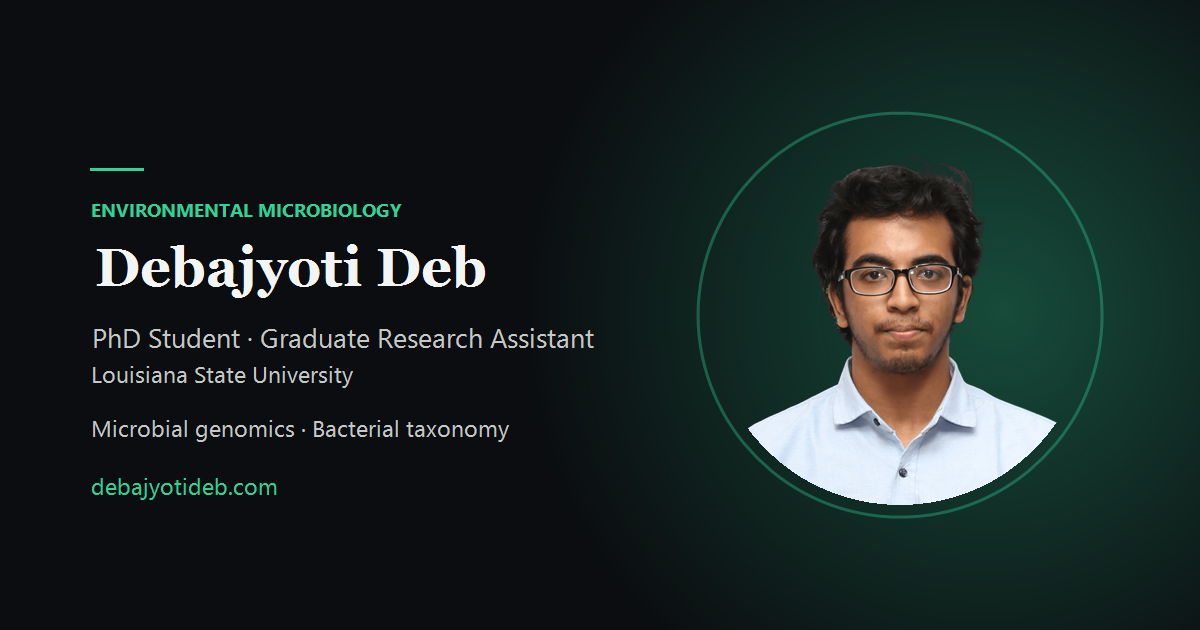
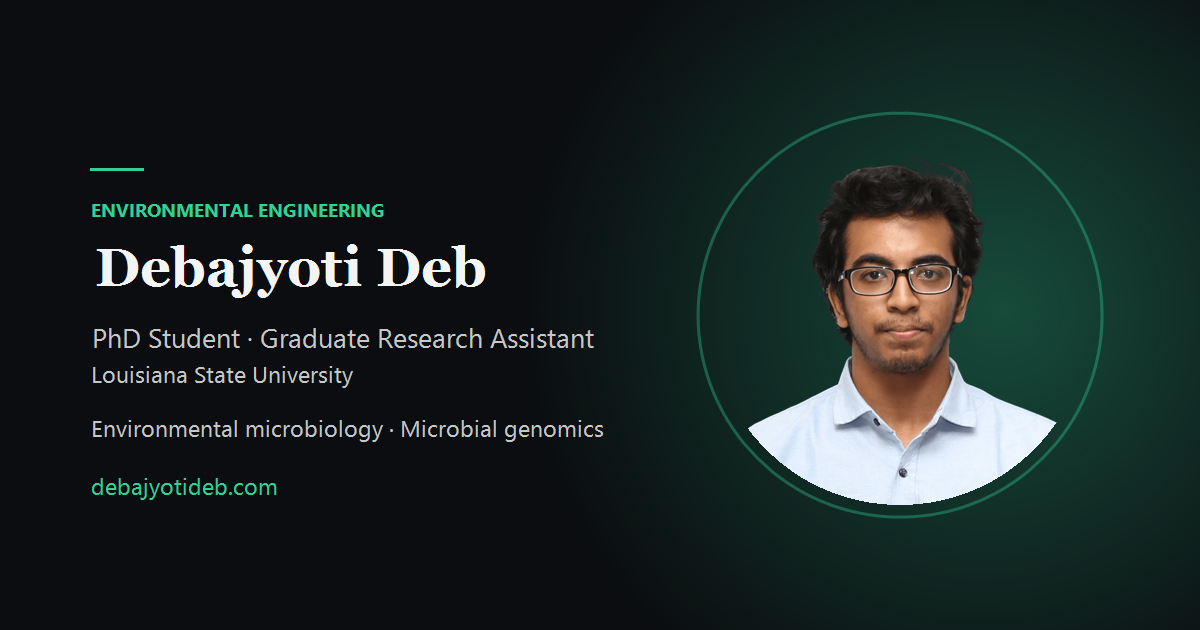
Correct research wording: restore engineering identity, drop generic phrasing
Content correction to the previous pass. No design changes.

- Hero: original headline restored ('Engineering how we treat what we
  throw away'). Description replaced with his wording. Chip now reads
  'PhD Student in Environmental Engineering'.
- About: replaced the method-heavy paragraph with his supplied text on
  the microbiology of environmental systems.
- Research: three areas replaced the previous ones - Biological Treatment
  & Environmental Microbiology, Contaminant Biodegradation &
  Bioremediation, Microbial Genomics & Bacterial Characterization.
- Keywords: Bacterial Taxonomy and Biodegradation replaced by Biological
  Wastewater Treatment, Bioremediation and Bacterial Characterization, so
  taxonomy no longer reads as the whole PhD.
- Removed 'I study environmental bacteria' and equivalent generic
  phrasing from index.html, cv.html, llms.txt and the metadata.
- Title, meta description, OG/Twitter and JSON-LD description now lead
  with environmental engineering; knowsAbout realigned.
- og-image.png regenerated (kicker back to Environmental Engineering).

Technical SEO, structured data, publication links and responsive fixes
from the previous pass are unchanged.

Changed region(s): [[0.0617, 0.6635, 0.5242, 0.6937], [0.2158, 0.3016, 0.3392, 0.3619]]

diff --git a/index.html b/index.html
@@ -3,8 +3,8 @@
 <head>
 <meta charset="UTF-8" />
 <meta name="viewport" content="width=device-width, initial-scale=1.0" />
-<title>Debajyoti Deb — PhD Student, Environmental Microbiology &amp; Microbial Genomics</title>
-<meta name="description" content="Debajyoti Deb — PhD student in Civil &amp; Environmental Engineering at Louisiana State University. Environmental microbiology, microbial genomics, bacterial taxonomy, biological treatment and biodegradation." />
+<title>Debajyoti Deb — Environmental Engineering PhD Student, LSU</title>
+<meta name="description" content="Debajyoti Deb — Environmental Engineering PhD student at Louisiana State University. Environmental microbiology, microbial genomics, and cultivation-based research on biological treatment and contaminant biodegradation." />
 <link rel="canonical" href="https://debajyotideb.com/" />
 <meta name="author" content="Debajyoti Deb" />
 <!-- max-snippet:-1 and max-image-preview:large let search and answer engines
@@ -15,8 +15,8 @@
 <meta property="og:type" content="profile" />
 <meta property="og:url" content="https://debajyotideb.com/" />
 <meta property="og:site_name" content="Debajyoti Deb" />
-<meta property="og:title" content="Debajyoti Deb — Environmental Microbiology &amp; Microbial Genomics" />
-<meta property="og:description" content="PhD student at Louisiana State University. Environmental microbiology, microbial genomics, bacterial taxonomy, biological treatment and biodegradation." />
+<meta property="og:title" content="Debajyoti Deb — Environmental Engineering PhD Student, LSU" />
+<meta property="og:description" content="Doctoral research combining environmental microbiology, microbial genomics, and cultivation-based experiments to investigate microorganisms relevant to biological treatment and contaminant biodegradation." />
 <meta property="og:image" content="https://debajyotideb.com/assets/img/og-image.png" />
 <meta property="og:image:width" content="1200" />
 <meta property="og:image:height" content="630" />
@@ -25,8 +25,8 @@
 <meta property="profile:first_name" content="Debajyoti" />
 <meta property="profile:last_name" content="Deb" />
 <meta name="twitter:card" content="summary_large_image" />
-<meta name="twitter:title" content="Debajyoti Deb — Environmental Microbiology &amp; Microbial Genomics" />
-<meta name="twitter:description" content="PhD student at Louisiana State University. Environmental microbiology, microbial genomics and bacterial taxonomy." />
+<meta name="twitter:title" content="Debajyoti Deb — Environmental Engineering PhD Student, LSU" />
+<meta name="twitter:description" content="Environmental microbiology, microbial genomics, and cultivation-based research on biological treatment and contaminant biodegradation." />
 <meta name="twitter:image" content="https://debajyotideb.com/assets/img/og-image.png" />
 
 <link rel="icon" type="image/svg+xml" href="assets/img/favicon.svg" />
@@ -62,7 +62,7 @@
       "image": "https://debajyotideb.com/assets/img/portrait.png",
       "email": "mailto:debajyotideb.che.buet@gmail.com",
       "jobTitle": "Graduate Research Assistant",
-      "description": "PhD student in Civil and Environmental Engineering at Louisiana State University. Studies environmental bacteria using cultivation, phenotypic characterization, molecular methods and genome analysis to understand their taxonomy, physiology and environmental functions.",
+      "description": "PhD student in Civil and Environmental Engineering at Louisiana State University. Doctoral research combining environmental microbiology, microbial genomics, and cultivation-based experiments to investigate microorganisms relevant to biological treatment and contaminant biodegradation.",
       "knowsLanguage": "en",
       "worksFor": {
         "@type": "CollegeOrUniversity",
@@ -97,16 +97,17 @@
         }
       },
       "knowsAbout": [
+        "Environmental Engineering",
         "Environmental Microbiology",
+        "Biological Wastewater Treatment",
+        "Bioremediation",
+        "Contaminant Biodegradation",
         "Microbial Genomics",
-        "Bacterial Taxonomy",
-        "Biodegradation",
-        "Biological Treatment",
+        "Bacterial Characterization",
         "Environmental Biotechnology",
-        "Bacterial Isolation and Cultivation",
-        "16S rRNA Gene Sequencing",
-        "Comparative Genomics",
-        "Environmental Engineering"
+        "Cultivation-Based Microbiology",
+        "16S rRNA Gene Analysis",
+        "Comparative Genomics"
       ],
       "sameAs": [
         "https://scholar.google.com/citations?user=YbjPVIoAAAAJ",
@@ -174,7 +175,7 @@
       "@type": "ProfilePage",
       "@id": "https://debajyotideb.com/#webpage",
       "url": "https://debajyotideb.com/",
-      "name": "Debajyoti Deb — PhD Student, Environmental Microbiology and Microbial Genomics",
+      "name": "Debajyoti Deb — Environmental Engineering PhD Student, LSU",
       "inLanguage": "en",
       "mainEntity": { "@id": "https://debajyotideb.com/#debajyoti-deb" },
       "about": { "@id": "https://debajyotideb.com/#debajyoti-deb" },
@@ -206,13 +207,12 @@
   <!-- ==================== HERO ==================== -->
   <section class="container hero" id="top">
     <div>
-      <span class="chip" data-reveal><span class="pulse"></span> PhD Student · Louisiana State University</span>
-      <h1 data-reveal style="--d:.08s">Understanding environmental microbes to <em>improve biological treatment.</em></h1>
+      <span class="chip" data-reveal><span class="pulse"></span> PhD Student in Environmental Engineering · Louisiana State University</span>
+      <h1 data-reveal style="--d:.08s">Engineering how we <em>treat what we throw away.</em></h1>
       <p class="lede" data-reveal style="--d:.16s">
-        I'm Debajyoti Deb, a PhD student at Louisiana State University. I study
-        environmental bacteria using cultivation, phenotypic characterization, molecular
-        methods, and genome analysis to understand their taxonomy, physiology, and
-        environmental functions.
+        My doctoral research combines environmental microbiology, microbial genomics, and
+        cultivation-based experiments to investigate microorganisms relevant to biological
+        treatment and contaminant biodegradation.
       </p>
       <div class="btn-row" data-reveal style="--d:.24s">
         <a class="btn btn-primary" href="#research">Research</a>
@@ -266,15 +266,13 @@
             on <strong>environmental microbiology and biological treatment</strong>.
           </p>
           <p data-reveal>
-            My research is on environmental bacteria — isolating and cultivating strains,
-            characterizing them phenotypically, and combining 16S rRNA sequencing with
-            whole-genome and comparative genomic analysis to place them taxonomically. The
-            aim is to connect genotype, phenotype, and environmental function: to establish
-            what an organism is, and what it is able to do in the environments where it
-            occurs. Designing the experiments that answer those questions matters more than
-            any single method, though the bench work behind them — cultivation, microscopy,
-            staining, DNA extraction, PCR, and sequence analysis — is where most of the
-            evidence comes from.
+            My research focuses on the microbiology of environmental systems, particularly
+            microorganisms with potential roles in biological treatment and contaminant
+            degradation. I combine cultivation-based experiments, physiological and
+            phenotypic characterization, molecular methods, and whole-genome analysis to
+            examine microbial function and distinguish closely related bacterial strains.
+            My work also includes the genomic and taxonomic characterization of
+            environmentally relevant bacterial isolates.
           </p>
           <p data-reveal>
             I came to this from chemical engineering. My BSc is from the Bangladesh University
@@ -287,10 +285,10 @@
           <h3 style="margin-top:2.5rem;" data-reveal>Research interests</h3>
           <div style="display:flex; gap:0.6rem; flex-wrap:wrap; margin-top:1rem;" data-reveal>
             <span class="tag">Environmental Microbiology</span>
+            <span class="tag">Biological Wastewater Treatment</span>
+            <span class="tag">Bioremediation</span>
             <span class="tag">Microbial Genomics</span>
-            <span class="tag">Bacterial Taxonomy</span>
-            <span class="tag">Biodegradation</span>
-            <span class="tag">Biological Treatment</span>
+            <span class="tag">Bacterial Characterization</span>
             <span class="tag">Environmental Biotechnology</span>
           </div>
         </div>
@@ -327,33 +325,33 @@
       <span class="kicker" data-reveal>Research</span>
       <h2 data-reveal style="--d:.06s">Research &amp; Publications</h2>
       <p class="lede" data-reveal style="--d:.12s">
-        I work in Dr. William M. Moe's group at Louisiana State University on
-        environmental microbiology and biological treatment. Many environmentally
-        relevant bacteria remain poorly characterized, which limits what can be said
-        about their physiology and function. My work spans three connected themes.
+        I work in Dr. William M. Moe's group in the Department of Civil &amp; Environmental
+        Engineering at Louisiana State University. My doctoral research spans three
+        connected areas.
       </p>
 
       <div class="grid grid-3" style="margin:2.5rem 0;">
         <div class="card" data-reveal>
           <span class="card-num">01</span>
-          <h3>Environmental bacterial discovery and characterization</h3>
-          <p>Isolation and polyphasic characterization of environmental bacterial strains
-             using cultivation, physiological and biochemical testing, microscopy, and
-             16S rRNA sequencing.</p>
+          <h3>Biological Treatment &amp; Environmental Microbiology</h3>
+          <p>Investigating microbial populations and processes relevant to biological
+             treatment, nutrient transformation, and environmental engineering systems
+             using cultivation-based and molecular approaches.</p>
         </div>
         <div class="card" data-reveal>
           <span class="card-num">02</span>
-          <h3>Microbial genomics and bacterial taxonomy</h3>
-          <p>Genome assembly and analysis, comparative genomics, phylogenetic analysis, and
-             ANI-based comparisons, interpreted alongside phenotype for bacterial
-             classification.</p>
+          <h3>Contaminant Biodegradation &amp; Bioremediation</h3>
+          <p>Examining microorganisms associated with the biodegradation of environmental
+             contaminants, including cultivation-based assessment of degradative
+             populations and characterization of relevant microbial isolates.</p>
         </div>
         <div class="card" data-reveal>
           <span class="card-num">03</span>
-          <h3>Biological treatment and biodegradation</h3>
-          <p>Environmental microorganisms relevant to nutrient transformation, contaminant
-             biodegradation, biological treatment processes, and environmental
-             biotechnology.</p>
+          <h3>Microbial Genomics &amp; Bacterial Characterization</h3>
+          <p>Using phenotypic characterization, 16S rRNA gene analysis, whole-genome
+             sequencing, and comparative genomic approaches to characterize environmental
+             bacterial isolates and evaluate their taxonomic and functional
+             relationships.</p>
         </div>
       </div>
 
@@ -469,8 +467,9 @@
           </div>
           <div class="cv-where">Louisiana State University · Baton Rouge, Louisiana, USA</div>
           <ul>
-            <li>Doctoral research in environmental microbiology and biological treatment —
-                isolation, characterization, and genomic analysis of environmental bacteria.</li>
+            <li>Doctoral research on microorganisms relevant to biological treatment and
+                contaminant biodegradation, combining cultivation-based experiments with
+                molecular and genomic analysis.</li>
             <li>Polyphasic characterization of bacterial strains: cultivation and isolation,
                 physiological and biochemical testing, microscopy, and 16S rRNA sequencing.</li>
             <li>Genome and comparative genomic analysis used to support bacterial

diff --git a/cv.html b/cv.html
@@ -90,8 +90,9 @@
           </div>
           <div class="cv-where">Louisiana State University · Baton Rouge, Louisiana, USA</div>
           <ul>
-            <li>Doctoral research in environmental microbiology and biological treatment, focused
-                on the isolation, characterization, and genomic analysis of environmental bacteria.</li>
+            <li>Doctoral research on microorganisms relevant to biological treatment and
+                contaminant biodegradation, combining cultivation-based experiments with
+                molecular and genomic analysis.</li>
             <li><strong>Cultivation</strong> — preparing cultures and subcultures for the isolation
                 and maintenance of bacterial strains under aseptic conditions.</li>
             <li><strong>Molecular characterization</strong> — DNA extraction, PCR, and gel
